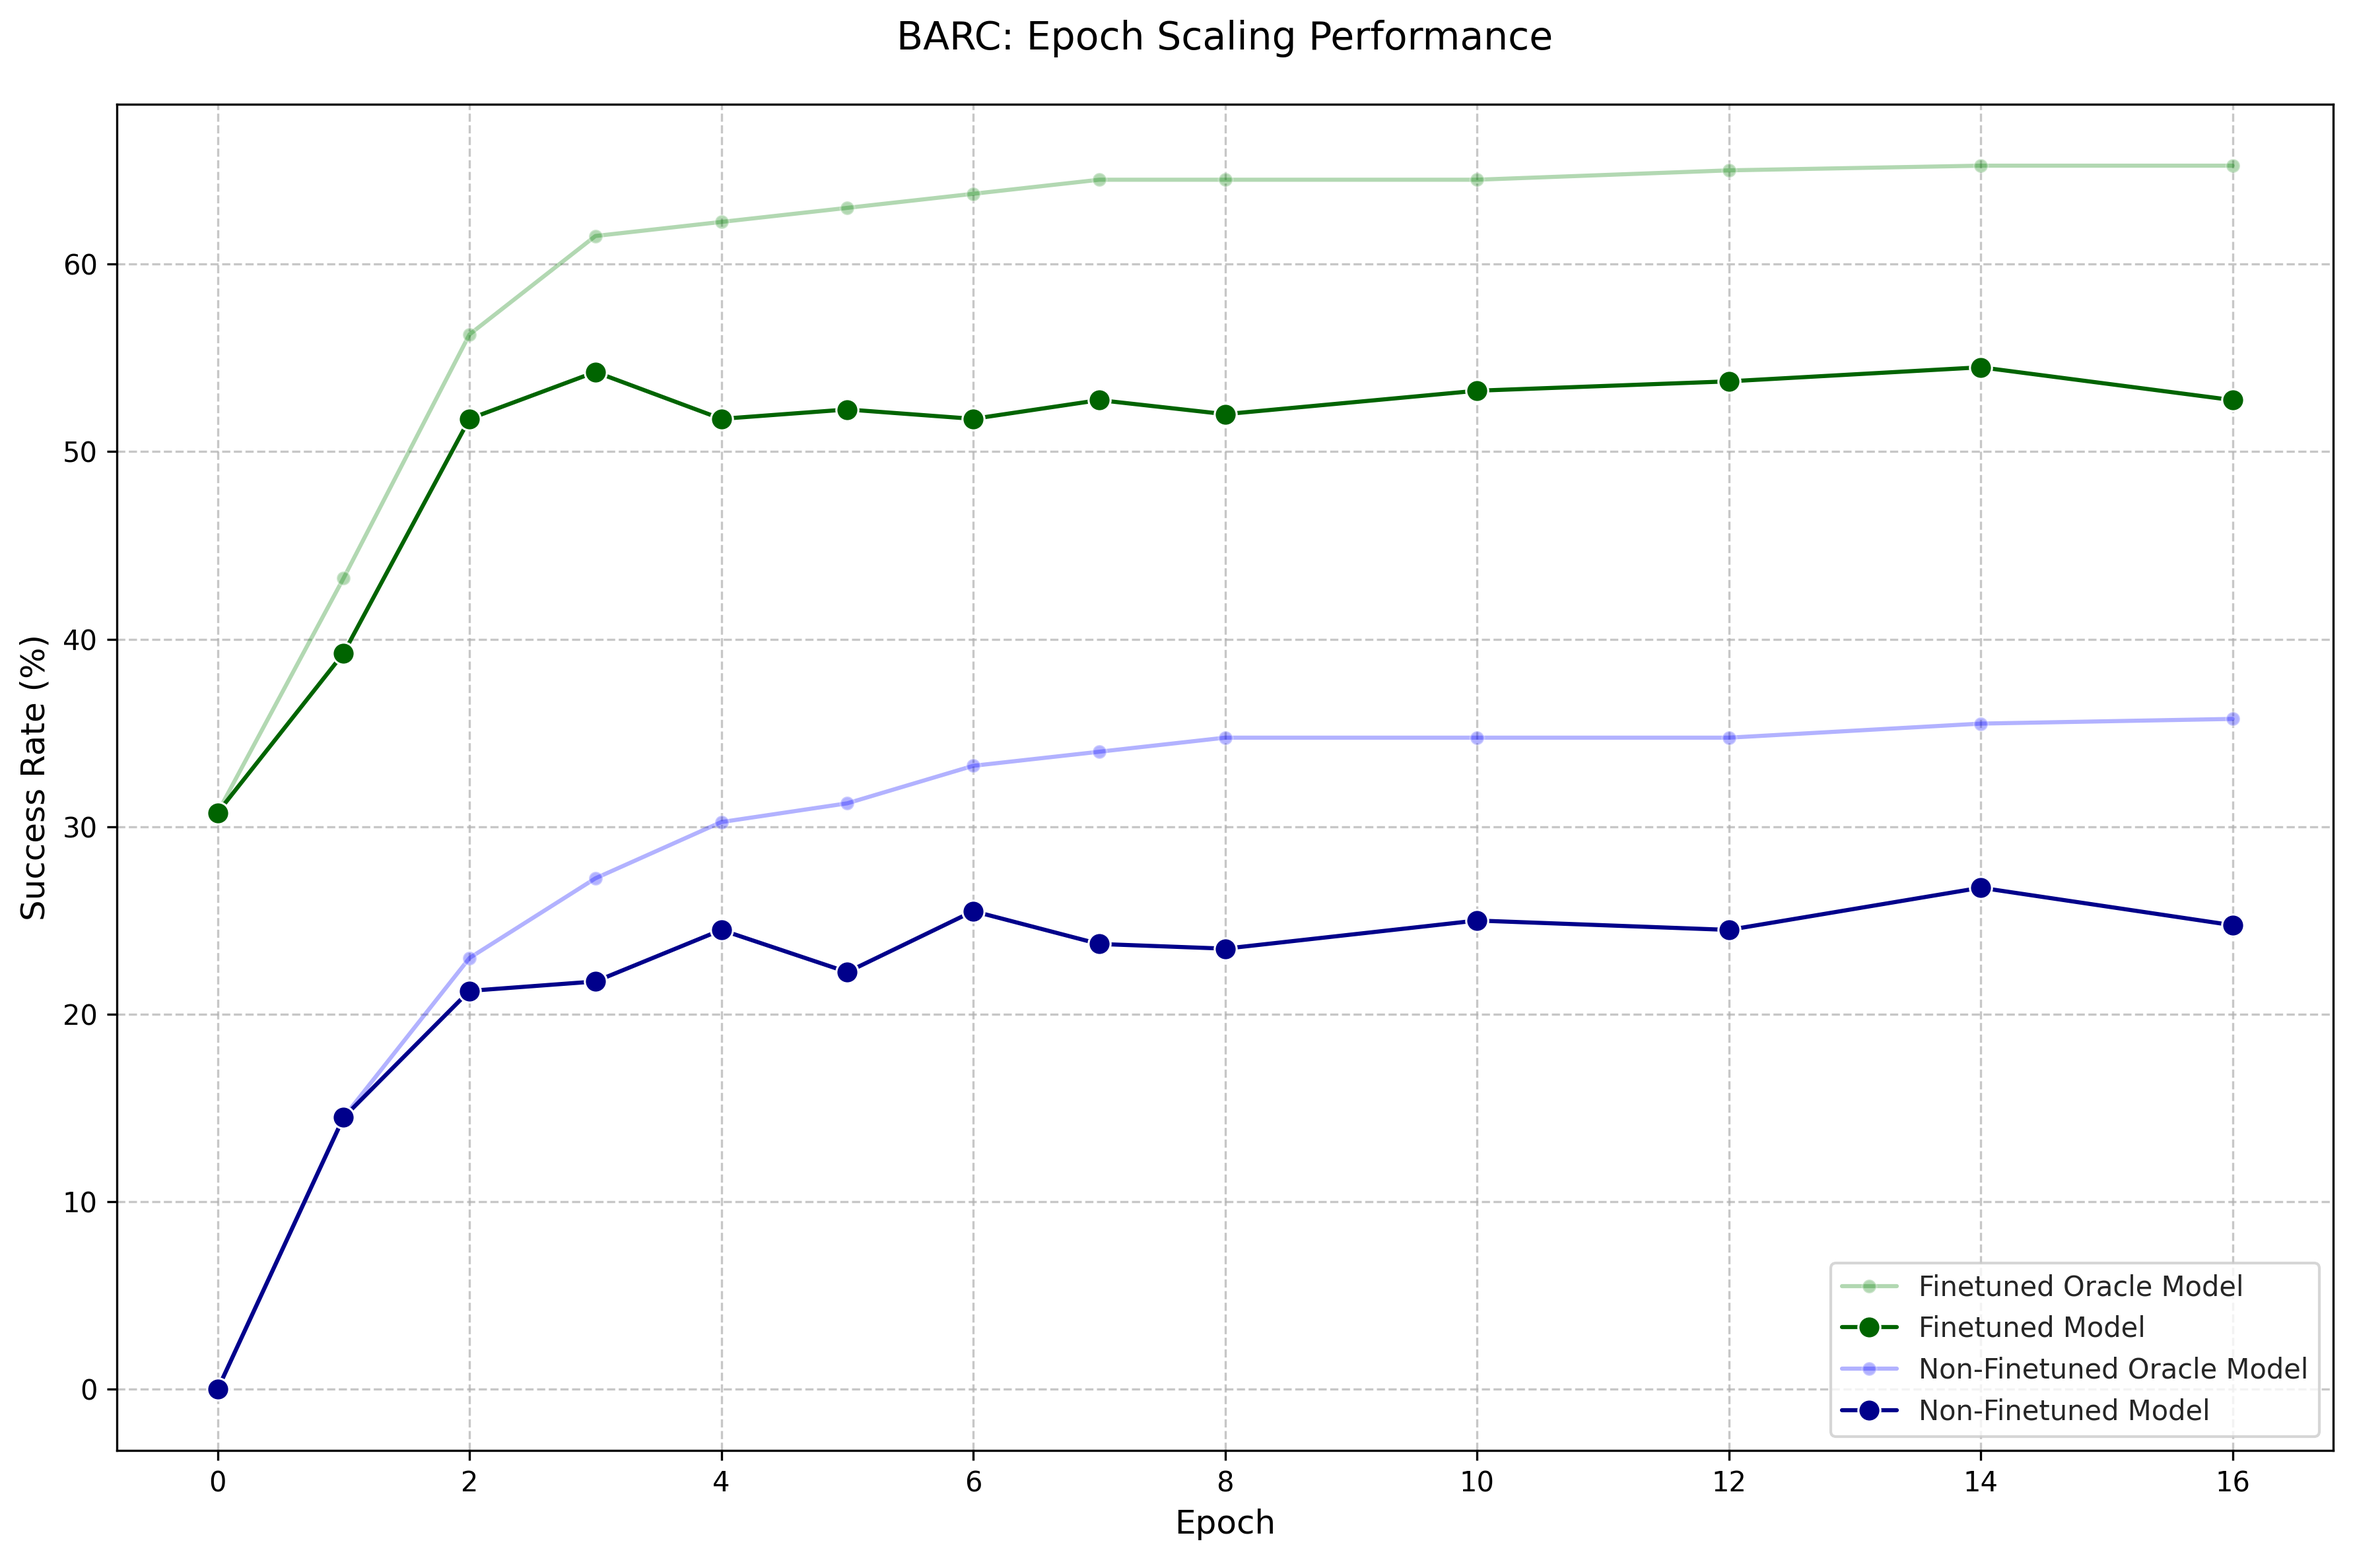
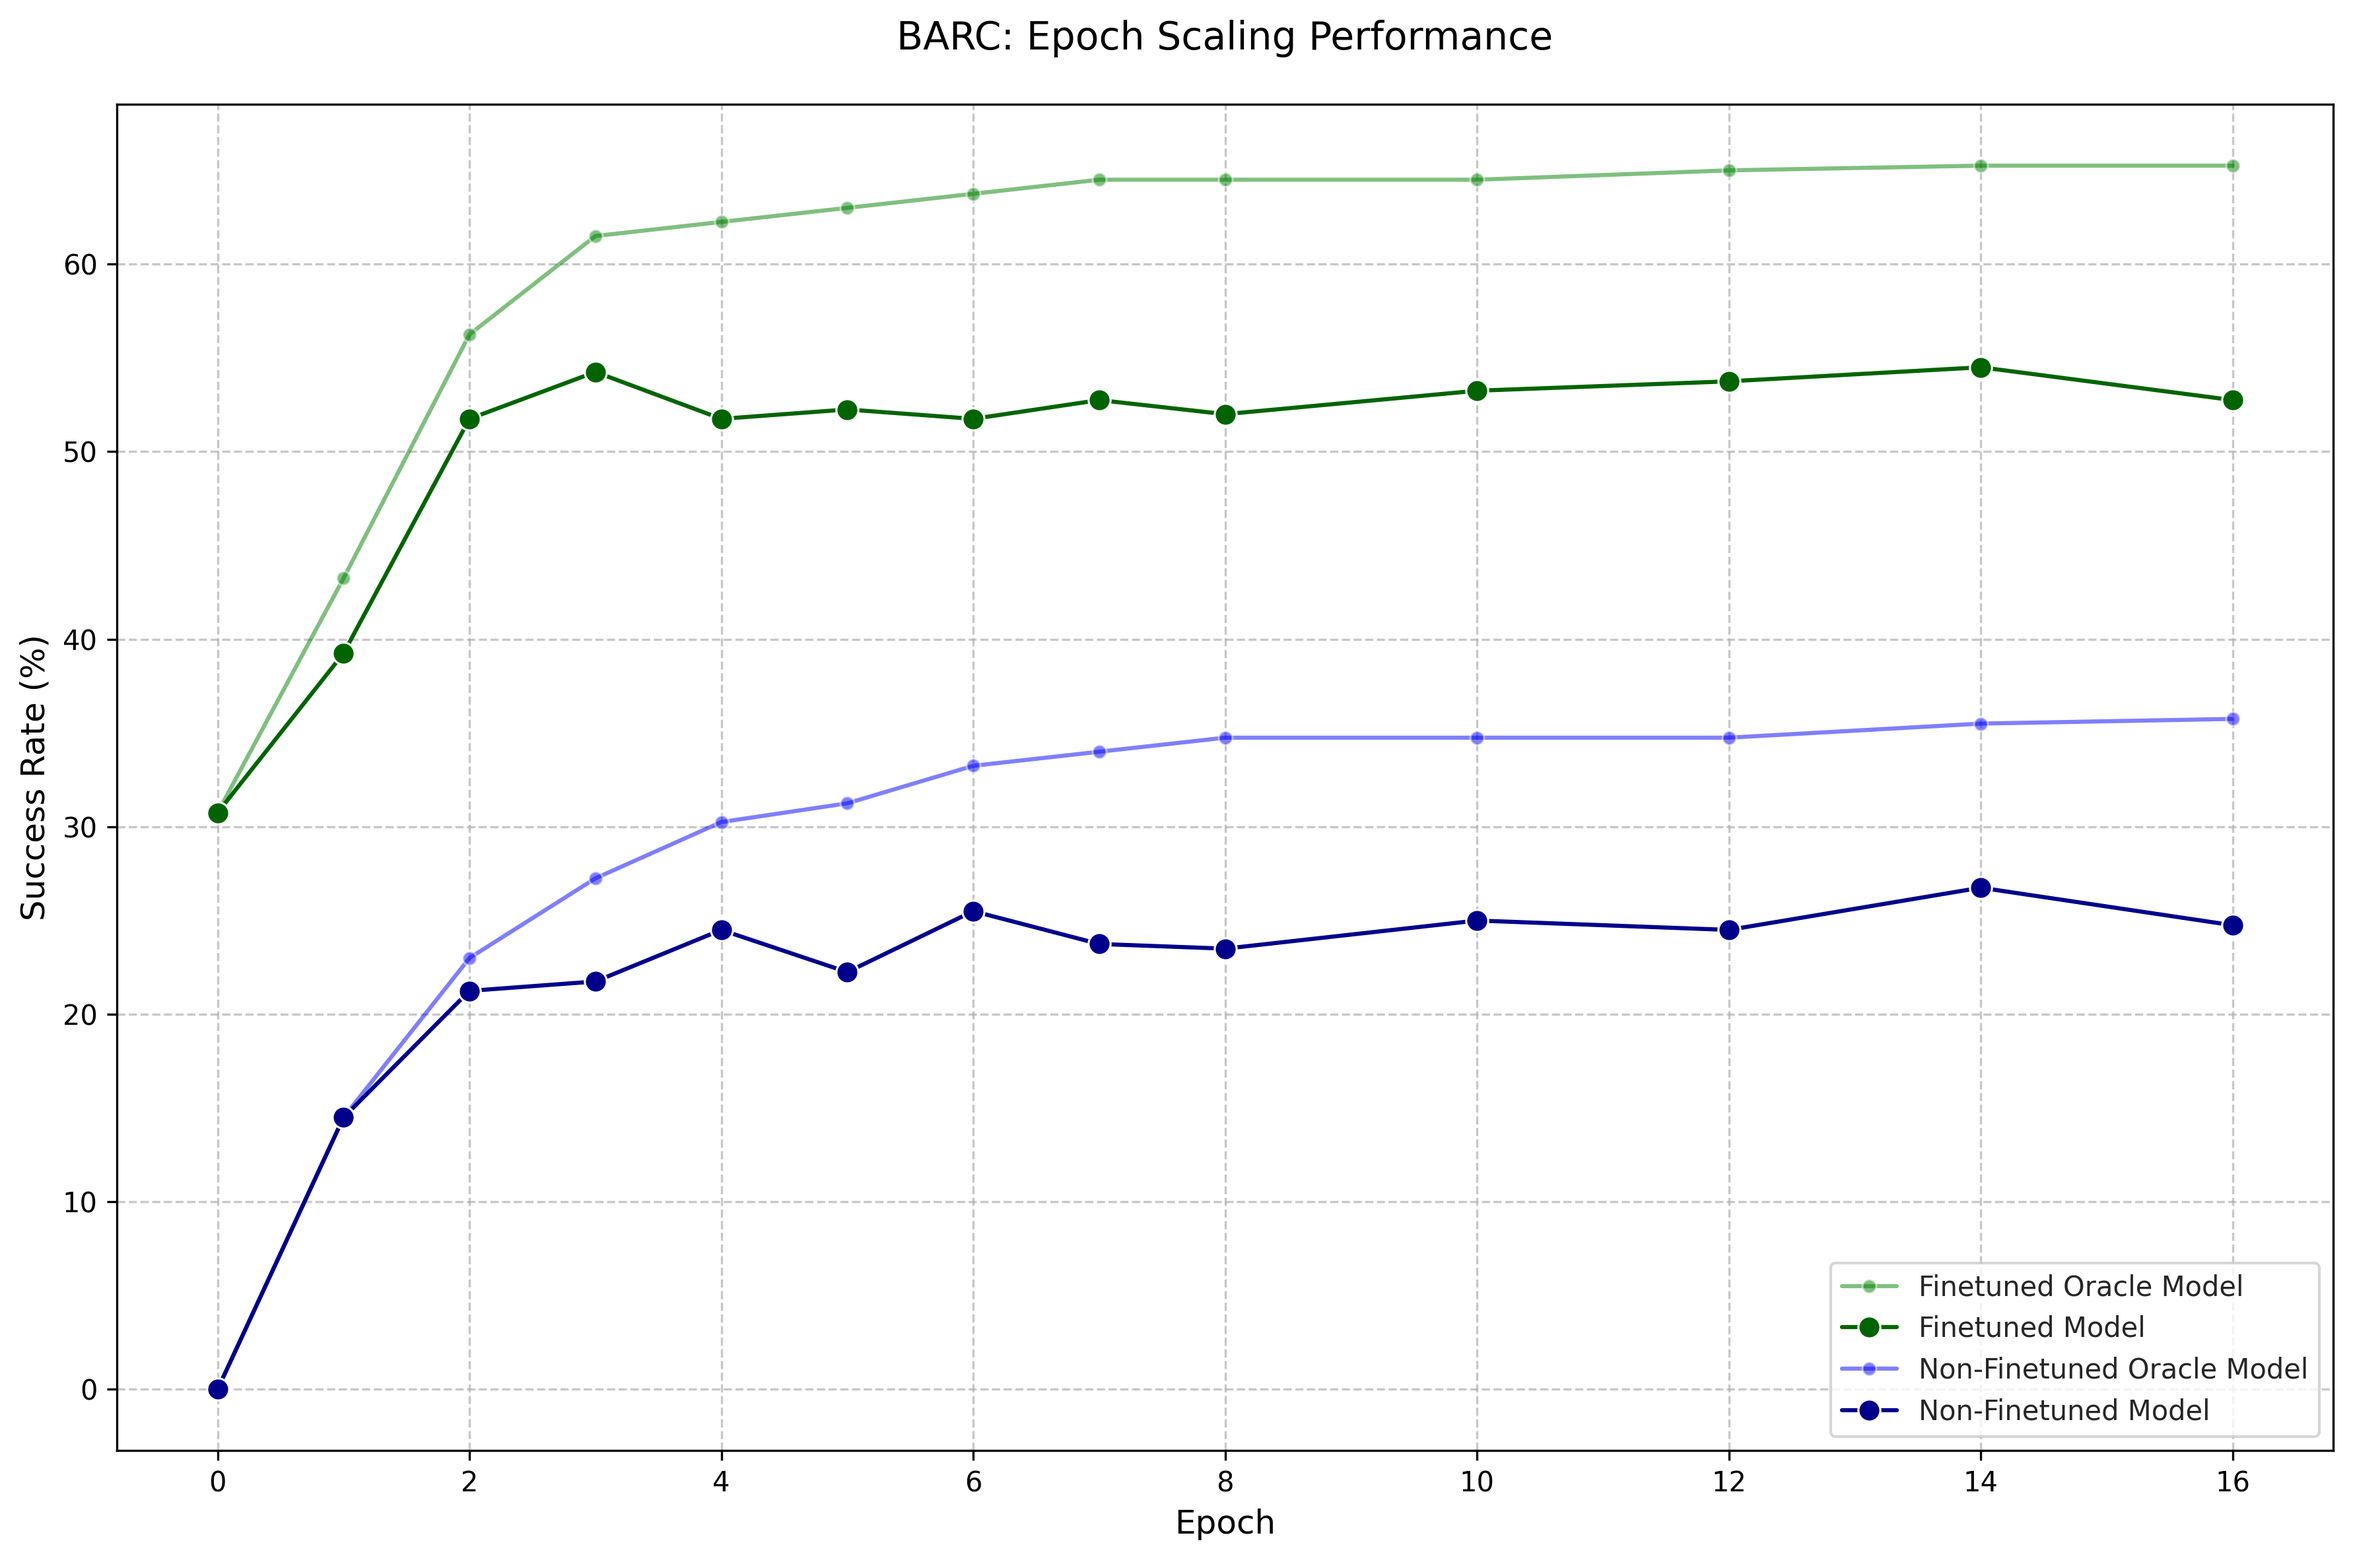
update

diff --git a/evaluation/scripts/training_progression_overall_ds.py b/evaluation/scripts/training_progression_overall_ds.py
@@ -38,7 +38,7 @@ sns.lineplot(
     x='Iteration',
     y='Success Rate (%)',
     marker='o',
-    markersize=8,
+    markersize=5,
     label='Finetuned Oracle Model',
     color='green',  # Green with transparency for finetuned oracle
     alpha=0.5,
@@ -61,7 +61,7 @@ sns.lineplot(
     x='Iteration',
     y='Success Rate (%)',
     marker='o',
-    markersize=8,
+    markersize=5,
     label='Non-Finetuned Oracle Model',
     color='blue',  # Blue with transparency for non-finetuned oracle
     alpha=0.5,

diff --git a/evaluation/scripts/training_progression_overall.py b/evaluation/scripts/training_progression_overall.py
@@ -41,7 +41,7 @@ sns.lineplot(
     markersize=5,
     label='Finetuned Oracle Model',
     color='green',  # Green with transparency for finetuned oracle
-    alpha=0.3,
+    alpha=0.5,
     ax=ax
 )
 
@@ -66,7 +66,7 @@ sns.lineplot(
     markersize=5,
     label='Non-Finetuned Oracle Model',
     color='blue',  # Blue with transparency for non-finetuned oracle
-    alpha=0.3,
+    alpha=0.5,
     ax=ax
 )
 
